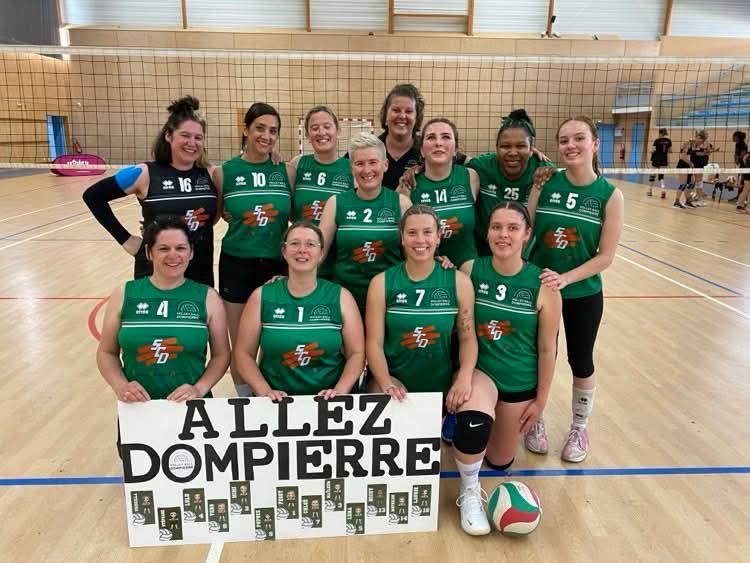
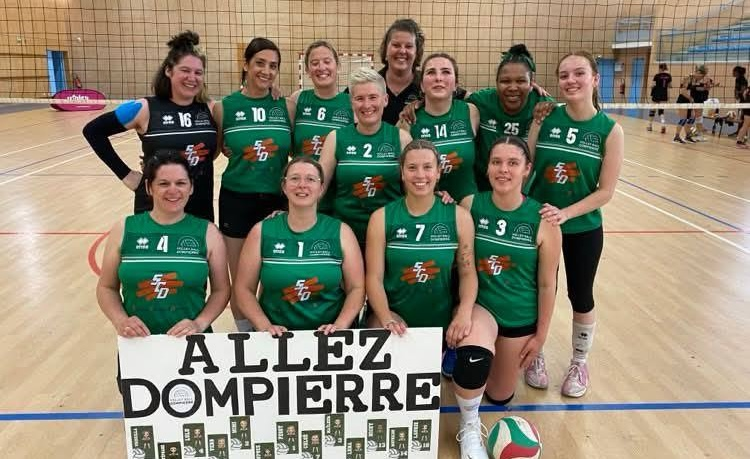
Update carousel image styles and responsive CSS
Adjusted image height and object-position for carousel images in styles.css to improve display. Updated media queries for better responsiveness on small screens. Also updated femmes_senior.jpg and img3.jpg images.

diff --git a/styles.css b/styles.css
@@ -359,13 +359,13 @@ img[alt="Facebook"] {
 
 #carouselEquipe .carousel-item img {
   width: 100%;
-  height: 100%;
+  height: auto;
   object-fit: cover;
 }
 
 #carouselEquipe .carousel-item:nth-child(1) img {
   object-fit: contain;
-  object-position: 50% -35%; 
+  object-position: 60% 10%; 
 }
 
 #carouselEquipe .carousel-item:nth-child(2) img {
@@ -375,7 +375,7 @@ img[alt="Facebook"] {
 
 #carouselEquipe .carousel-item:nth-child(3) img {
   object-fit: contain;
-  object-position: 40% -20%; 
+  object-position: 60% 10%; 
 }
 
 #galerie {
@@ -383,19 +383,13 @@ img[alt="Facebook"] {
   margin: 0 auto;
 }
 
-@media (min-width: 1024px) {
-  #carouselEquipe {
-    max-height: 600px; /* ou 650px selon besoin */
+/* Ajustement pour petits écrans */
+@media (max-width: 768px) {
+  #galerie h2 {
+    margin-bottom: 10px !important;
   }
 }
 
-/* Ajustement pour petits écrans */
-@media (max-width: 767px) {
-  #carouselEquipe .carousel-item img {
-    height: 40vh;
-    object-position: 60% 5%; 
-  }
-}
 
 
 .table {
